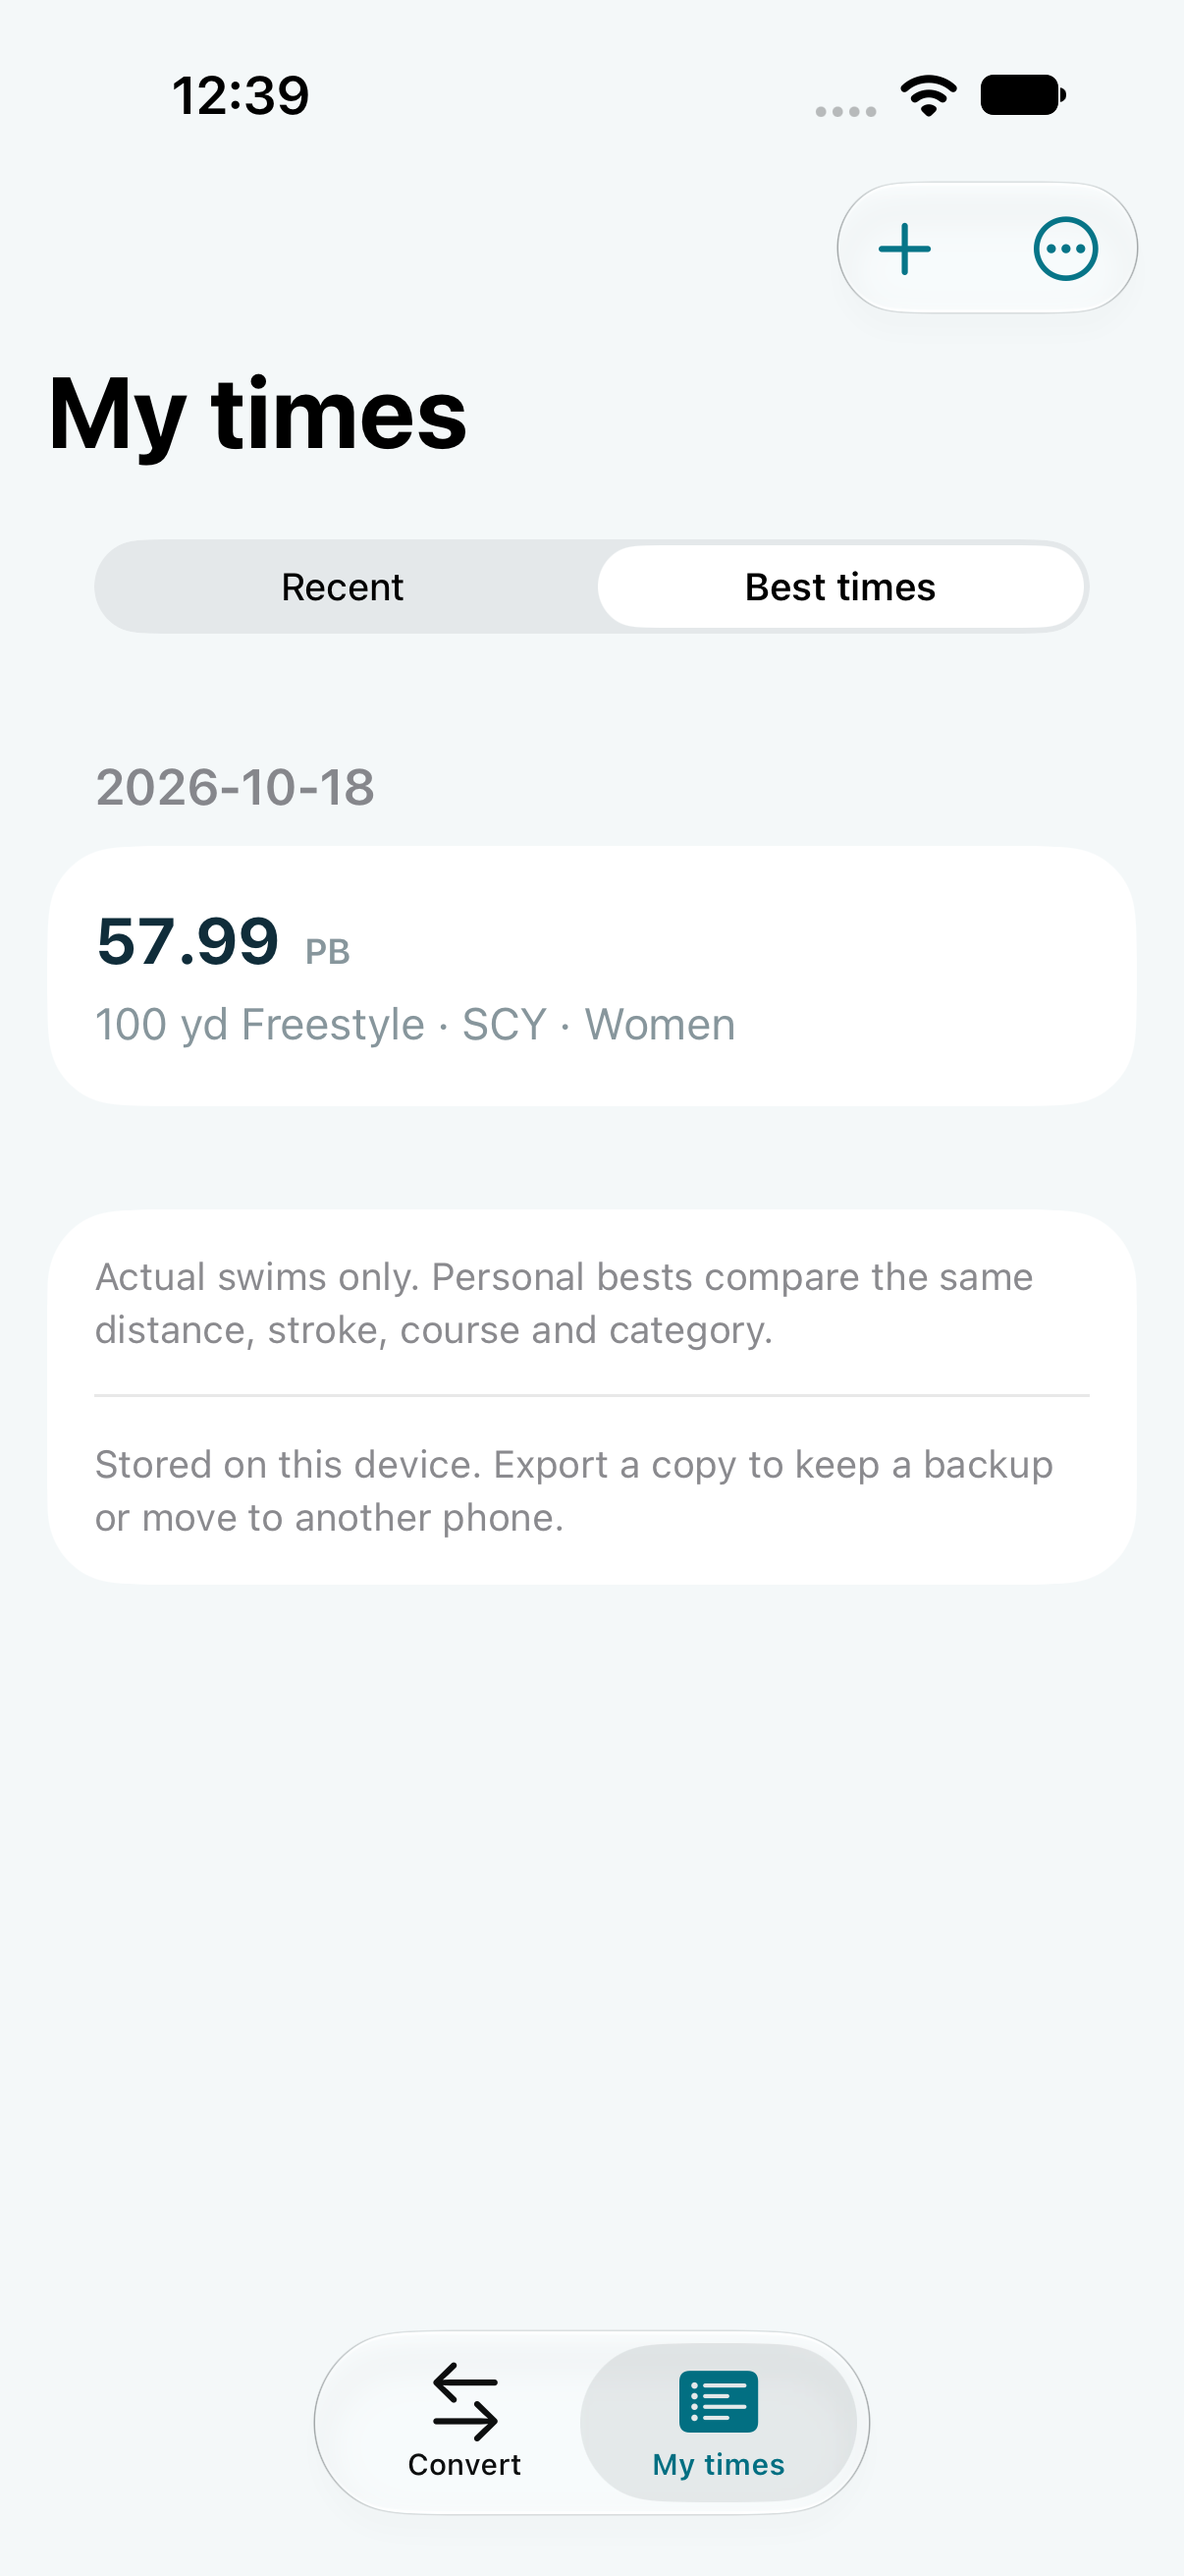
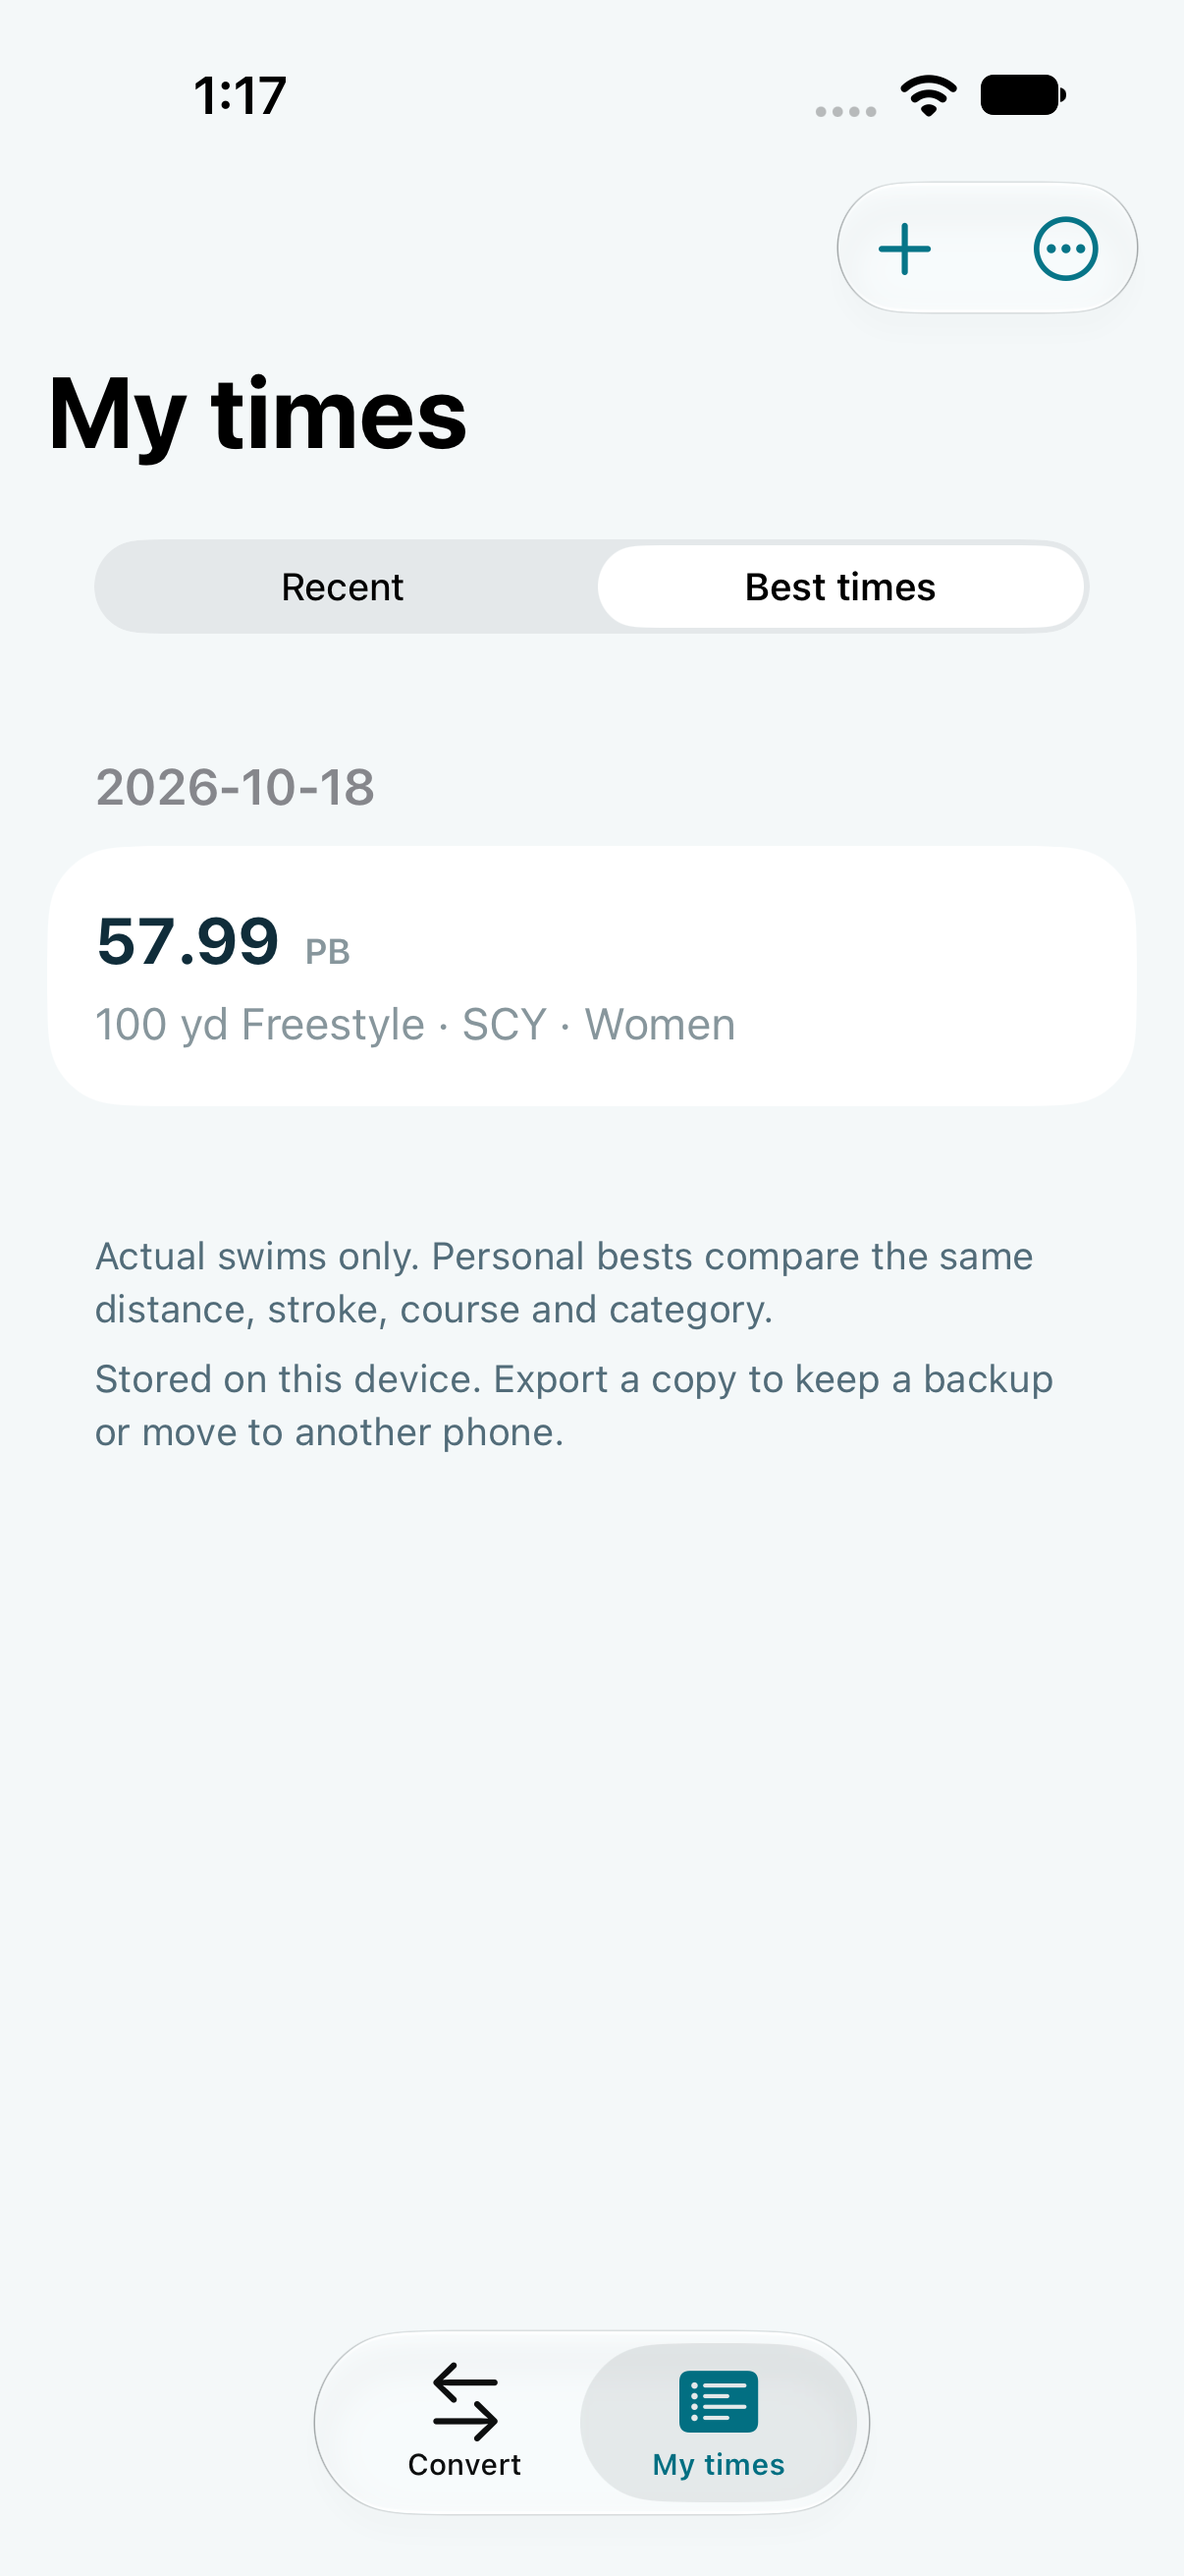
Present swim-history guidance as a quiet native footer

diff --git a/apps/ios/UITests/TurnmarkUITests.swift b/apps/ios/UITests/TurnmarkUITests.swift
@@ -15,7 +15,22 @@ final class TurnmarkUITests: XCTestCase {
             let nativeList = app.collectionViews.element(boundBy: max(app.collectionViews.count - 1, 0))
             let editor = app.descendants(matching: .any)["swimEditorForm"].firstMatch
             let scroll = editor.exists ? editor : (container.exists ? container : (nativeList.exists ? nativeList : app))
-            if element.exists && element.frame.minY < app.frame.minY + 80 { scroll.swipeDown() }
+            let downward = element.exists && element.frame.minY < app.frame.minY + 80
+            if app.keyboards.firstMatch.exists {
+                // The form extends behind the keyboard. XCTest's default swipe
+                // can start in its assistant bar, which never scrolls the form.
+                let visible = scroll.frame.intersection(app.frame)
+                let done = app.buttons["dismissSwimKeyboard"]
+                let bottom = min(visible.maxY, app.keyboards.firstMatch.frame.minY,
+                    done.exists ? done.frame.minY : visible.maxY) - 12
+                let top = max(visible.minY, app.frame.minY + 140)
+                let upper = top + (bottom - top) * 0.2
+                let lower = top + (bottom - top) * 0.8
+                let origin = app.coordinate(withNormalizedOffset: .zero)
+                let start = origin.withOffset(CGVector(dx: visible.midX, dy: downward ? upper : lower))
+                let end = origin.withOffset(CGVector(dx: visible.midX, dy: downward ? lower : upper))
+                start.press(forDuration: 0.1, thenDragTo: end)
+            } else if downward { scroll.swipeDown() }
             else { scroll.swipeUp() }
         }
         XCTAssertTrue(element.exists && element.isHittable, "Element must remain reachable: \(element)")

diff --git a/apps/android/src/main/java/net/stanback/turnmark/HistoryViews.kt b/apps/android/src/main/java/net/stanback/turnmark/HistoryViews.kt
@@ -203,8 +203,12 @@ fun Draft.record(date: String?, meet: String?, replacing: SwimRecord? = null): S
                 TextButton(onClick = openLegacy) { Text("Open previous comparison") }
             }
             item {
-                Text("Actual swims only. Personal bests compare the same distance, stroke, course and category.", style = MaterialTheme.typography.bodySmall)
-                Text("Stored on this device. Export a copy to keep a backup or move to another phone.", style = MaterialTheme.typography.bodySmall)
+                Column(verticalArrangement = Arrangement.spacedBy(8.dp)) {
+                    Text("Actual swims only. Personal bests compare the same distance, stroke, course and category.",
+                        style = MaterialTheme.typography.bodySmall, color = LocalTurnmarkColors.current.textMuted)
+                    Text("Stored on this device. Export a copy to keep a backup or move to another phone.",
+                        style = MaterialTheme.typography.bodySmall, color = LocalTurnmarkColors.current.textMuted)
+                }
             }
         }
     }

diff --git a/apps/ios/Sources/HistoryViews.swift b/apps/ios/Sources/HistoryViews.swift
@@ -219,10 +219,12 @@ struct HistoryScreen: View {
                     Button("Open previous comparison") { showingLegacy = true }
                 }
             }
-            Section {
-                Text("Actual swims only. Personal bests compare the same distance, stroke, course and category.")
-                Text("Stored on this device. Export a copy to keep a backup or move to another phone.")
-            }.font(.footnote).foregroundStyle(.secondary)
+            Section {} footer: {
+                VStack(alignment: .leading, spacing: 8) {
+                    Text("Actual swims only. Personal bests compare the same distance, stroke, course and category.")
+                    Text("Stored on this device. Export a copy to keep a backup or move to another phone.")
+                }.font(.footnote).foregroundStyle(TurnmarkPalette.textMuted).textCase(nil)
+            }
         }.scrollContentBackground(.hidden).background(TurnmarkPalette.canvas)
             .navigationTitle("My times")
             .toolbar {

diff --git a/docs/NATIVE_VISUAL_REVIEW.md b/docs/NATIVE_VISUAL_REVIEW.md
@@ -36,6 +36,8 @@ Corrections from reviewing the rendered screens:
   is applied to long descriptions or meet names.
 - The time hint uses concrete examples rather than a long compound format word
   that split awkwardly at accessibility text sizes.
+- My times guidance is a quiet footer on the canvas with shared muted text,
+  without a separate charcoal card or row divider.
 - Android stroke/distance controls keep their natural width and flow when the
   pane is narrow; filters/file actions also flow. Large text uses a native
   two-row Material app bar for record/edit/detail titles instead of squeezing
@@ -61,7 +63,7 @@ Corrections from reviewing the rendered screens:
 | Duo expanded and book fold                      | [Open](screenshots/ios-native-duo-open-light.png) · [Book](screenshots/ios-native-duo-book-light.png)                                                                                                           |
 | Duo tabletop and compact outer display          | [Tabletop, light](screenshots/ios-native-duo-tabletop-light.png) · [Tabletop, dark](screenshots/ios-native-duo-tabletop-dark.png) · [Outer](screenshots/ios-native-duo-outer-light.png)                         |
 | Android expanded converter, light / dark        | [Light](screenshots/android-native-book-light.png) · [Dark](screenshots/android-native-result-dark.png)                                                                                                         |
-| Android recorded swim and bests                 | [List/detail](screenshots/android-native-times-detail-dark.png) · [Bests](screenshots/android-native-best-dark.png)                                                                                             |
+| Android recorded swim and bests                 | [List/detail](screenshots/android-native-times-detail-dark.png) · [Bests](screenshots/android-native-best-dark.png) · [Muted help footer](screenshots/android-native-help-light.png)                            |
 | Android injected book / tabletop fold           | [Book](screenshots/android-native-book-test-dark.png) · [Tabletop](screenshots/android-native-tabletop-test-dark.png)                                                                                           |
 | Android narrow phone, 200% text, long meet name | [Editor](screenshots/android-long-editor-large.png) · [Meet](screenshots/android-long-meet-large.png) · [Detail](screenshots/android-long-detail-large.png) · [Input](screenshots/android-long-input-large.png) |
 
